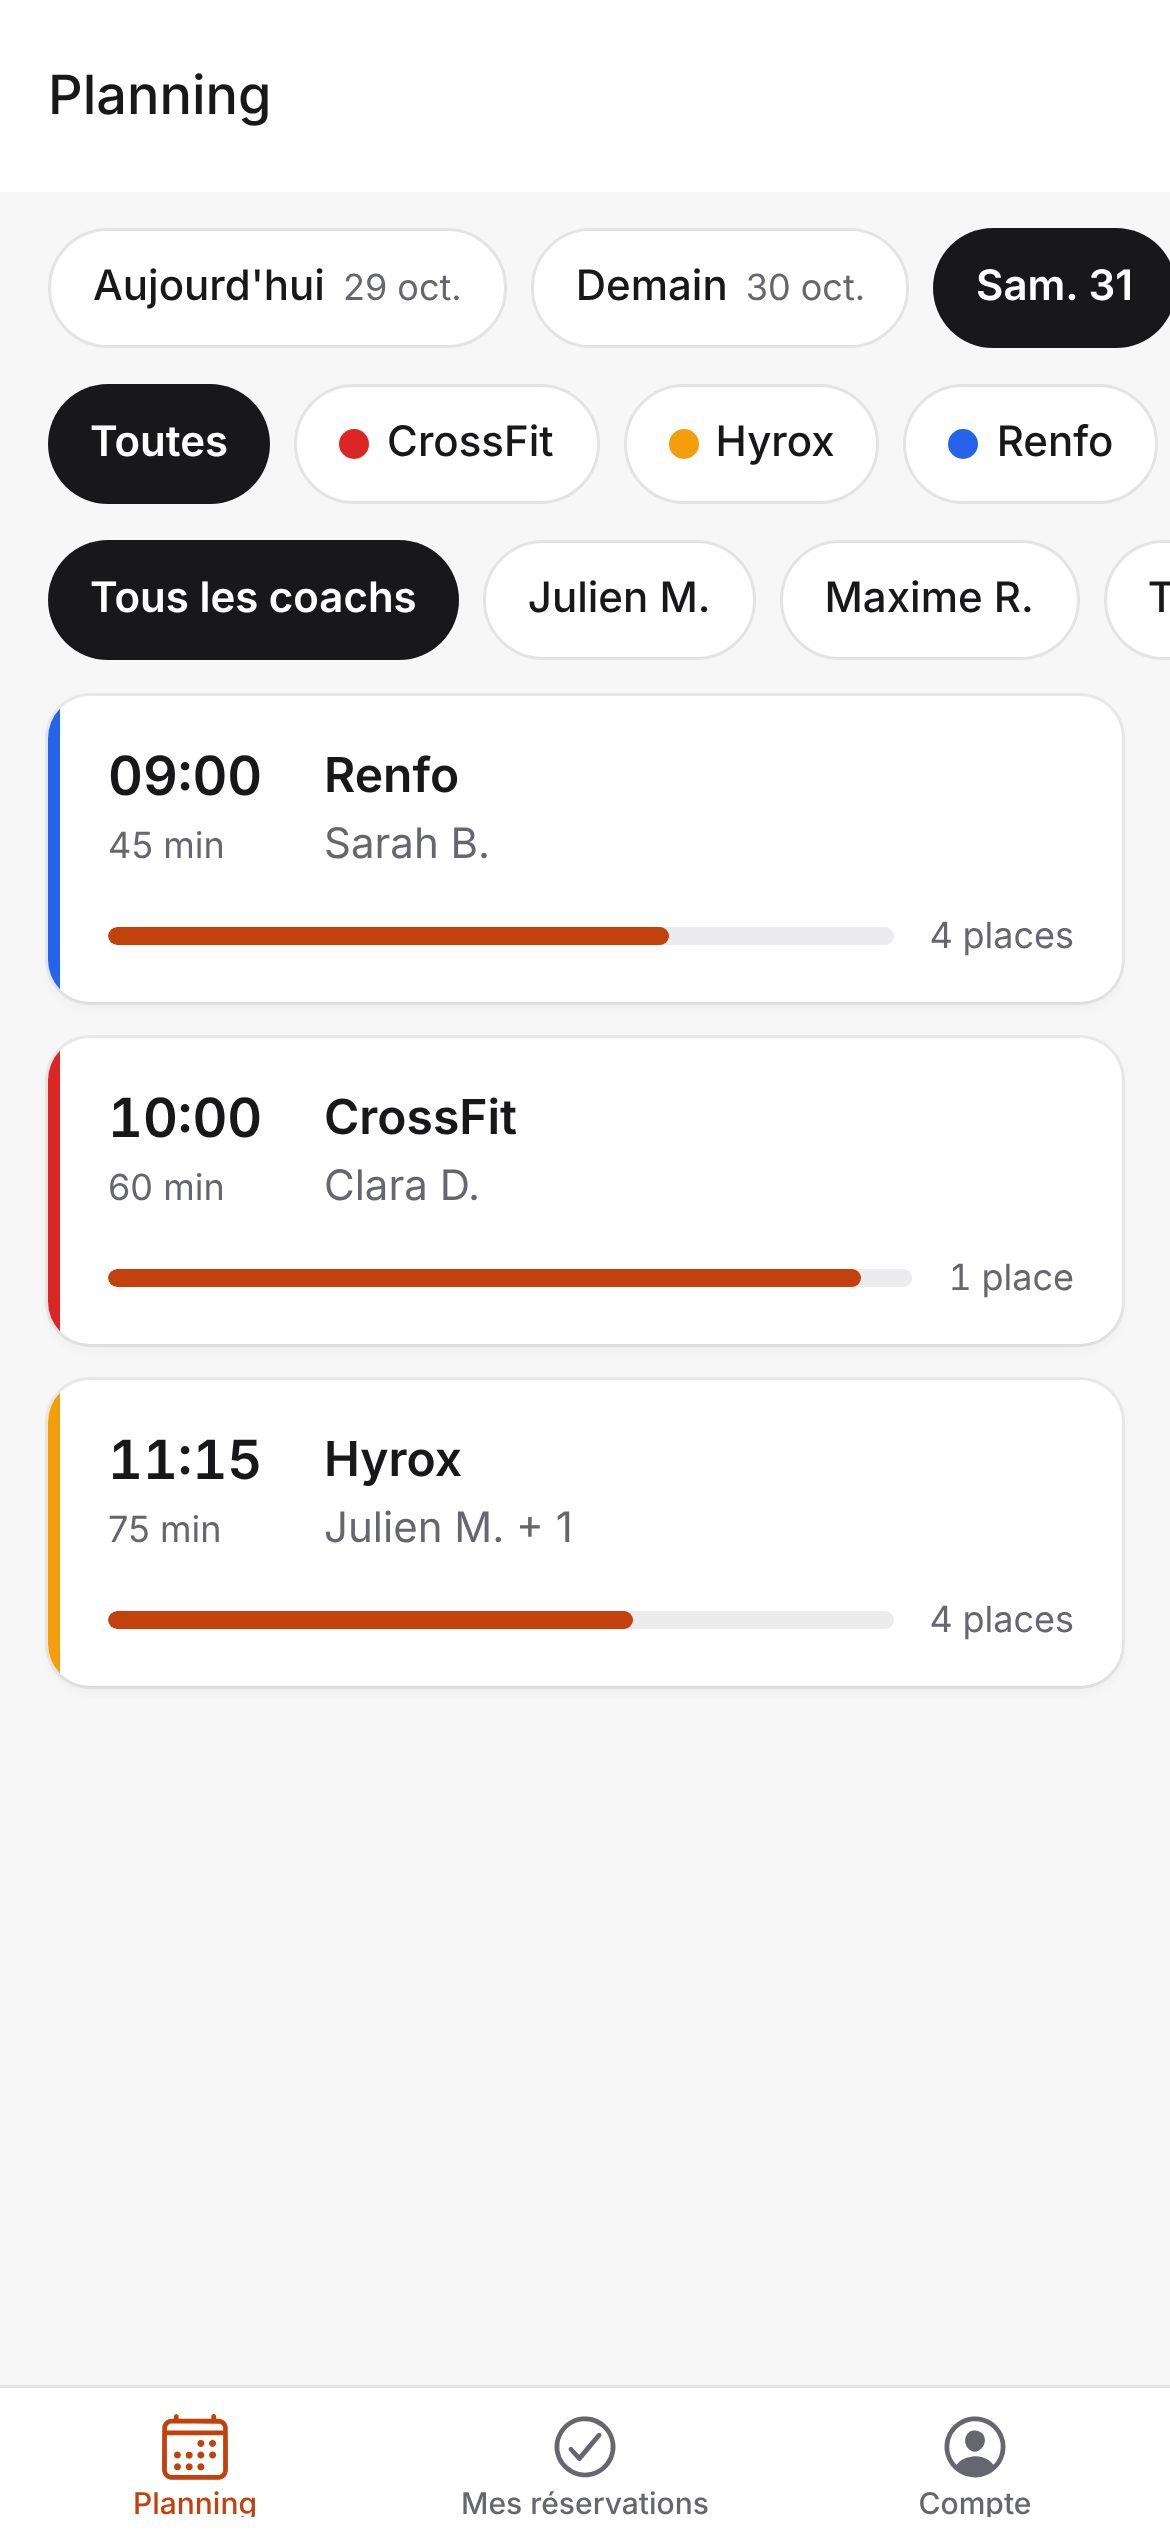
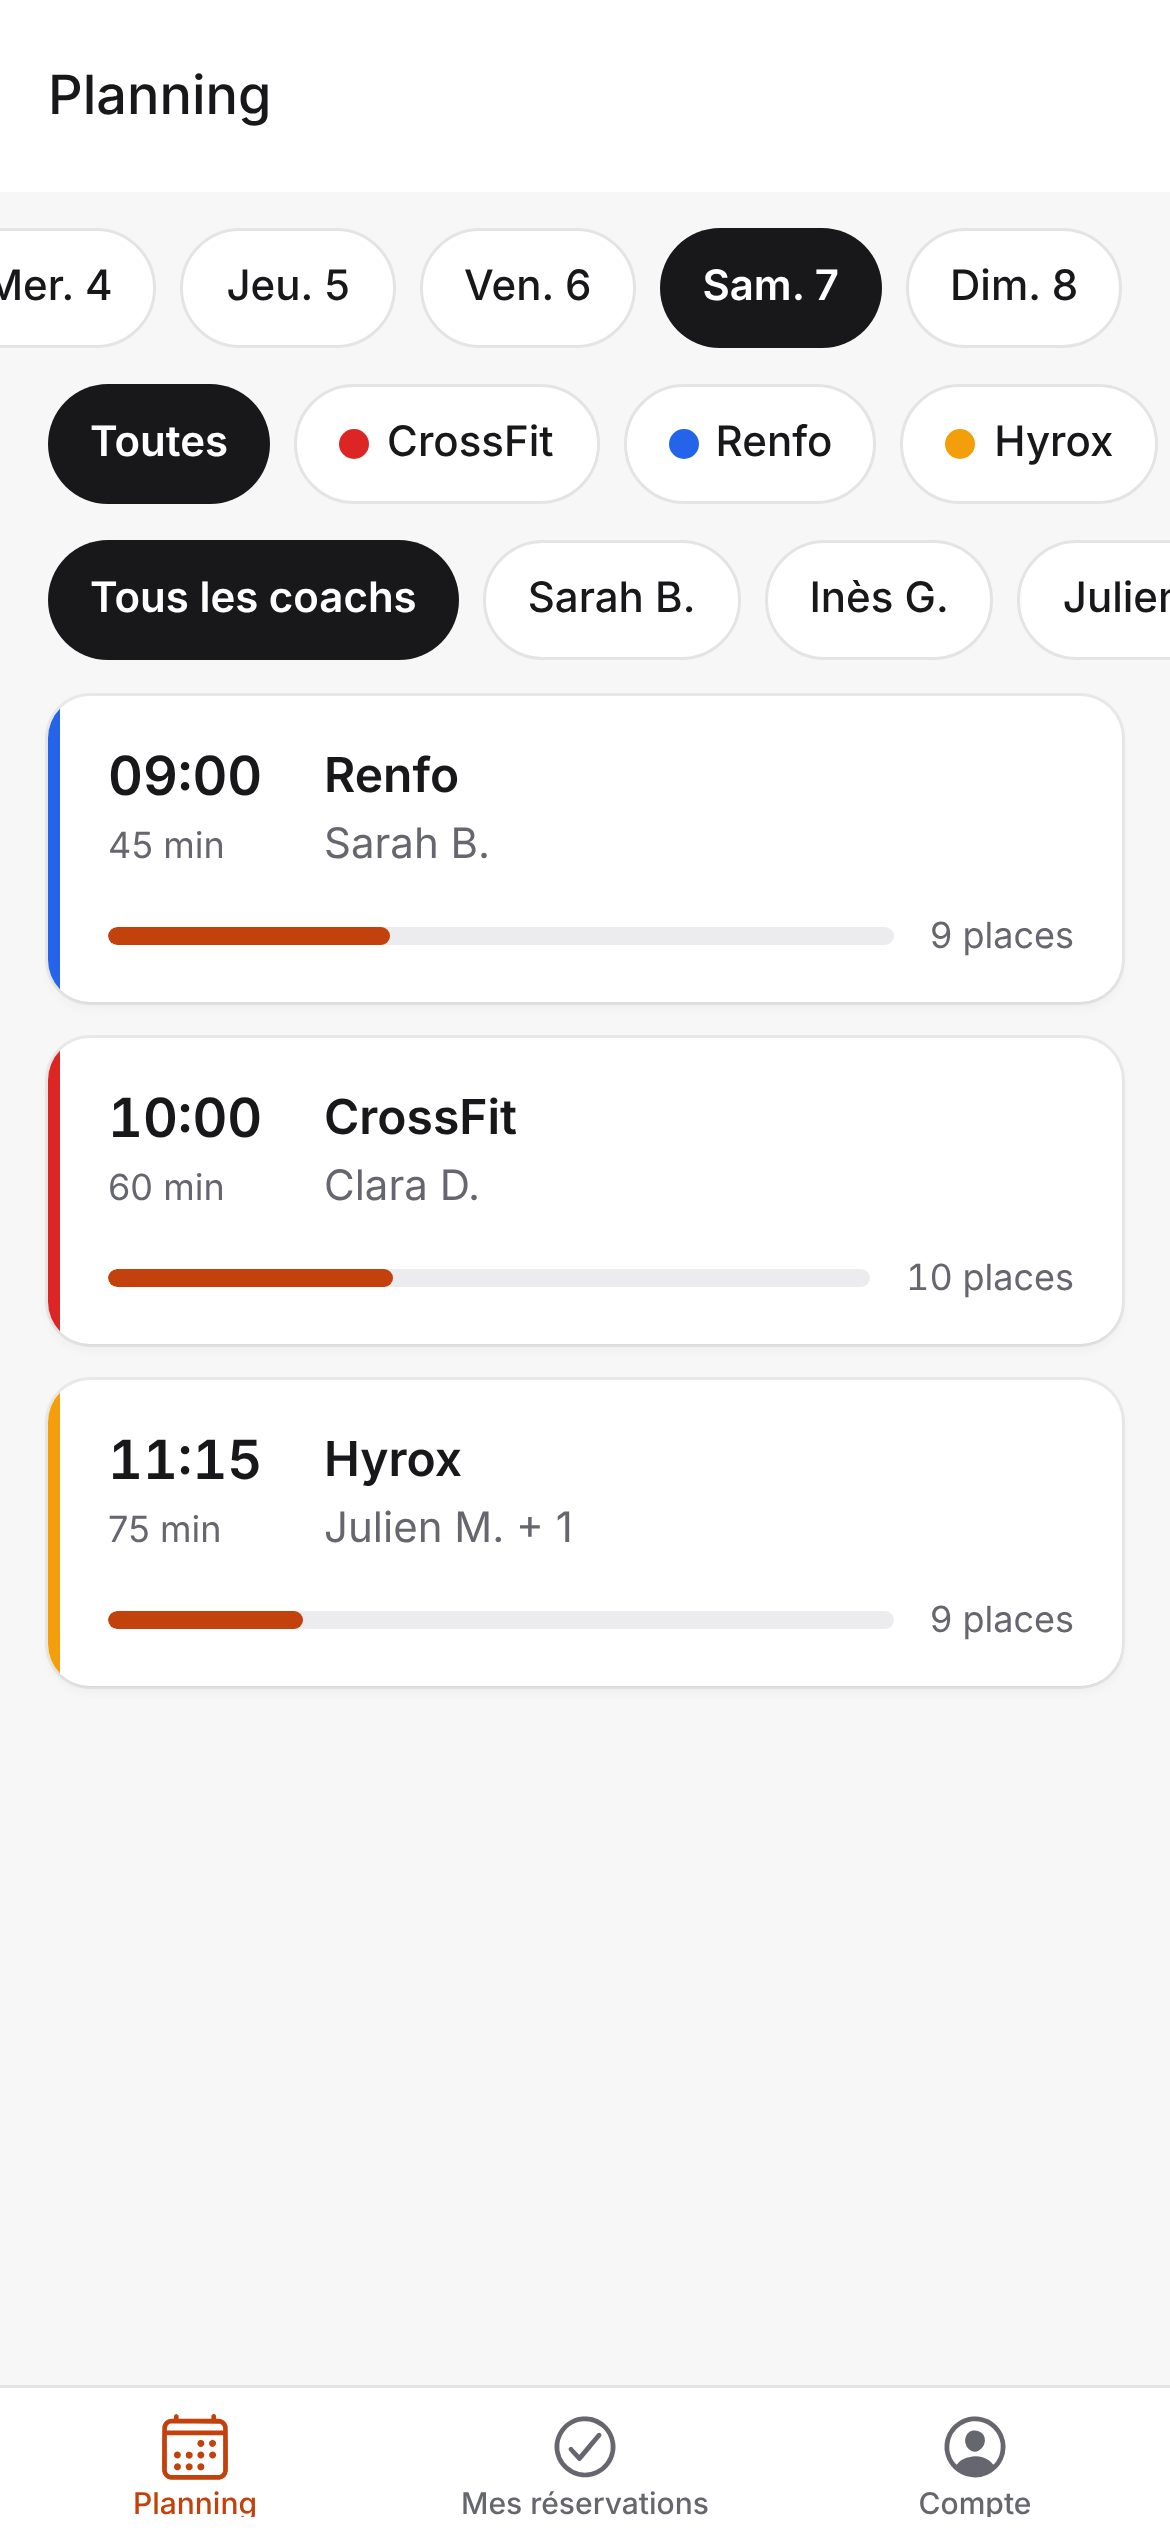
Site vitrine : captures du nouveau back office, pied de page réduit
Captures régénérées sur le back office paramétrable et l'app (base locale du jour), image de
partage refaite ; le script montre les heures des coachs du mois précédent et le planning depuis
le début de la journée. Pied de page : seulement Confidentialité et Mentions légales, sans lien
pour l'instant (mentions à compléter).

Claude-Session: https://claude.ai/code/session_01QTv4y8ECrBLQK19fGzkX2C

diff --git a/apps/site/components/site-footer.tsx b/apps/site/components/site-footer.tsx
@@ -1,29 +1,20 @@
 import Link from "next/link";
 import { BrandMark } from "@/components/brand-mark";
 import { CONTAINER } from "@/components/section-heading";
-import { t, type MessageKey } from "@/lib/i18n";
-import { BRAND, SECTIONS } from "@/lib/site";
+import { t } from "@/lib/i18n";
+import { BRAND } from "@/lib/site";
 
-const COLUMNS: { title: MessageKey; links: { href: string; label: MessageKey }[] }[] = [
-  {
-    title: "footer.product",
-    links: [{ href: `/#${SECTIONS.features}`, label: "nav.features" }],
-  },
-  {
-    title: "footer.legal",
-    links: [
-      { href: `/#${SECTIONS.demo}`, label: "nav.cta" },
-      { href: "/confidentialite", label: "footer.privacy" },
-      { href: "/mentions-legales", label: "footer.legalNotice" },
-    ],
-  },
-];
-
+/**
+ * Pied de page : marque, phrase, copyright, et les deux pages légales. Celles-ci sont affichées
+ * sans lien pour l'instant (décision du gérant, BRIEF §12) : leurs mentions restent à compléter.
+ */
 export function SiteFooter({ year }: { year: number }) {
   return (
     <footer className="border-t border-border">
-      <div className={`${CONTAINER} grid grid-cols-2 gap-10 py-12 sm:grid-cols-4`}>
-        <div className="col-span-2">
+      <div
+        className={`${CONTAINER} flex flex-col gap-8 py-12 sm:flex-row sm:items-end sm:justify-between`}
+      >
+        <div>
           <Link href="/" className="flex min-h-10 w-fit items-center gap-2 text-base font-semibold">
             <BrandMark className="size-7" />
             {BRAND.name}
@@ -33,23 +24,10 @@ export function SiteFooter({ year }: { year: number }) {
             {t("footer.copyright", { year })}
           </p>
         </div>
-        {COLUMNS.map((column) => (
-          <nav key={column.title} aria-label={t(column.title)}>
-            <p className="text-sm font-semibold">{t(column.title)}</p>
-            <ul className="mt-4 space-y-1">
-              {column.links.map((link) => (
-                <li key={link.href}>
-                  <Link
-                    href={link.href}
-                    className="flex min-h-10 items-center text-sm text-muted-foreground transition-colors duration-300 ease-base hover:text-foreground"
-                  >
-                    {t(link.label)}
-                  </Link>
-                </li>
-              ))}
-            </ul>
-          </nav>
-        ))}
+        <ul aria-label={t("footer.legal")} className="flex gap-6 text-sm text-muted-foreground">
+          <li>{t("footer.privacy")}</li>
+          <li>{t("footer.legalNotice")}</li>
+        </ul>
       </div>
     </footer>
   );

diff --git a/apps/site/messages/fr.ts b/apps/site/messages/fr.ts
@@ -150,8 +150,6 @@ export const fr = {
   },
   footer: {
     tagline: "La gestion de salle de sport avec l'IA native, pour toutes les activités.",
-    product: "Produit",
-    contact: "Contact",
     legal: "Informations",
     privacy: "Confidentialité",
     legalNotice: "Mentions légales",

diff --git a/BRIEF.md b/BRIEF.md
@@ -360,3 +360,4 @@ Aucune ne bloque la phase 0 (le schéma reste générique : règles de réservat
 | 2026-11-01 | **L'application s'appelle Chalq** (demande du gérant), comme le site : nom du produit `BRAND_NAME` dans `packages/shared` (le site, le back office et l'app le lisent). Back office : onglets « Page · Chalq » (au lieu de « Espace équipe », qui reste le sous-titre sous le nom de la salle), icônes du site, marque Chalq en pied du panneau de connexion (la salle garde la tête), l'assistant se présente comme celui de Chalq. App : nom affiché « Chalq » (`app.json`), marque et nom en tête de l'écran de connexion. Identifiants techniques **inchangés** (slug et scheme Expo, bundle id, projet EAS `@korentinb/salle-de-sport`, dépôt, packages `@salle/*`) : les changer couperait EAS Update et les liens existants. |
 | 2026-11-01 | **Revue UX avant la mise en dev** : les deux apps parcourues sur le seed (back office par rôle, gérant, accueil, coach et admin, en 1 440 px et 390 px, soit 172 captures ; app adhérent, actif et suspendu), relues en cinq lots. Corrigé dans la foulée : messages justes pour un adhérent suspendu ou en impayé (app), planning mobile ouvert sur le premier jour qui a encore une séance ; back office : vue Jour titrée par la date, grille ouverte sur l'heure courante, palette ⌘K (Entrée ouvre le premier résultat, assistant seulement s'il est configuré), relance du jour désactivée, réservations et historique repliés et justes sur la fiche adhérent, suppressions et refus confirmés (segment, devis, rôle, commande de la plateforme), « Activer » annulable 10 s, unités des réglages lisibles, tableaux des Paramètres en pleine largeur, textes des Intégrations écrits pour le gérant, prix « HT », « Étiquettes » partout, « 1er », un seul repère `main`, cibles tactiles de 40 px, onglet courant ramené à l'écran. Migration `20261104090000_ux_counts.sql` : un envoi automatique ne vaut plus réponse à un adhérent (messages sans réponse, pastille, activité du Pipeline) et `gym_kpis` renvoie le vrai nombre d'adhérents à risque ; **à appliquer au projet de dev**. Décisions ouvertes au §11 ; le reste (tableaux en cartes sur mobile, page Aujourd'hui, enregistrement des Segments, cohérence des sections de Paramètres) est listé dans le rapport de revue. |
 | 2026-11-01 | **Migration `20261104090000_ux_counts.sql` appliquée au projet de dev en ligne** (API Management) et enregistrée dans `supabase_migrations.schema_migrations` ; vérifiée en lecture avec le gérant de démo (15 messages sans réponse, 150 cartes au Pipeline). « Adhérents à risque » y vaut 85 : les réservations de démo du projet de dev s'arrêtent au 17 octobre (seed du 4 octobre), donc la fréquence des 30 derniers jours s'effondre. Rejouer le seed rendrait des chiffres réalistes. |
+| 2026-11-02 | **Site : captures du back office refaites et pied de page réduit** (demande du gérant) : captures régénérées sur le back office paramétrable (#23, #25) et l'app, image de partage refaite ; le script de captures montre les heures des coachs du mois précédent et le planning depuis le début de la journée. Pied de page : seulement « Confidentialité » et « Mentions légales », **sans lien pour l'instant** (mentions à compléter) ; les pages restent en ligne, non indexées. |

diff --git a/CLAUDE.md b/CLAUDE.md
@@ -467,8 +467,9 @@ min, max)` — défauts identiques des deux côtés. Écriture des deux familles
 - Landing page qui vend la plateforme aux gérants de **toutes les salles et activités**,
   positionnée **IA native** ; nom du produit `BRAND_NAME` (`packages/shared/src/brand.ts`), repris
   par `BRAND` (`lib/site.ts`, injecté dans `t()` comme `{brand}`). Un seul appel à l'action : le champ email « Avoir un accès anticipé » du hero
-  (`DemoEmailForm`, ancre `#demo`, focus donné par le bouton de la barre), sans note dessous
-  (Confidentialité reste au pied de page) ; merci sur place. Server Action `requestDemo`
+  (`DemoEmailForm`, ancre `#demo`, focus donné par le bouton de la barre), sans note dessous ;
+  merci sur place. Pied de page : marque, phrase, copyright, et « Confidentialité » / « Mentions
+  légales » affichés sans lien pour l'instant (`SiteFooter`, BRIEF §12). Server Action `requestDemo`
   (`app/actions.ts` : `demoEmailSchema`, champ piège, délai minimal, puis `request_demo` type
   `demo` par `anonClient()`, `lib/supabase.server.ts`) ; fonctionne sans JavaScript. Alerte email
   de l'équipe pour chaque nouvelle demande (pas pour un doublon) : `after()` puis
